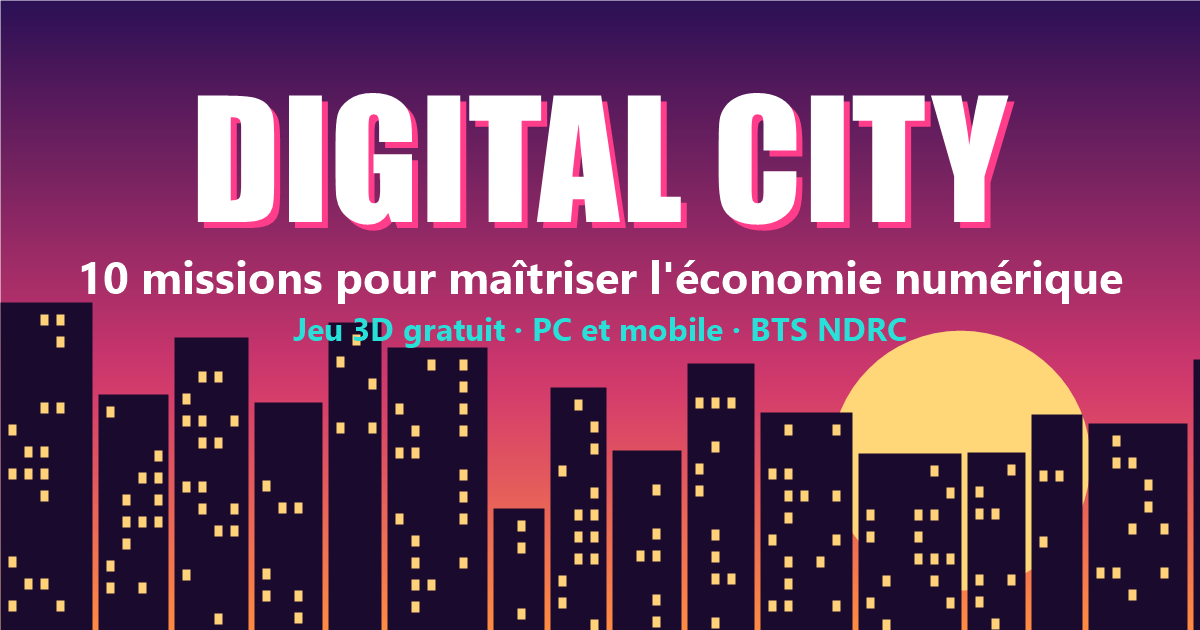
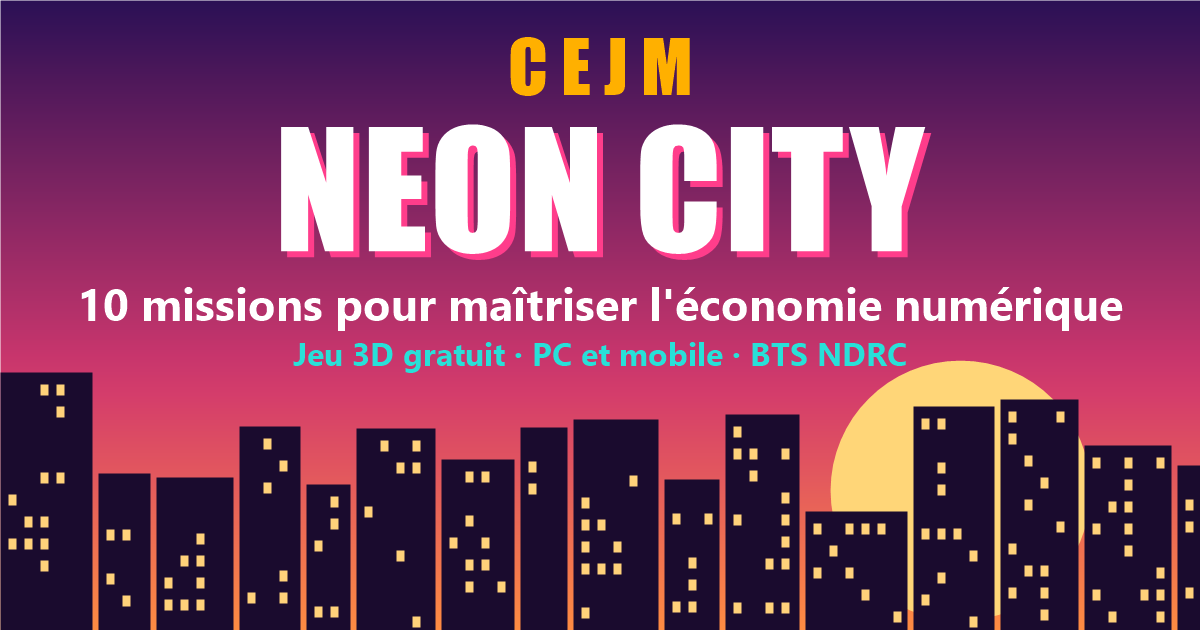
Renommage du jeu en CEJM Neon City

diff --git a/index.html b/index.html
@@ -3,11 +3,11 @@
 <head>
   <meta charset="utf-8" />
   <meta name="viewport" content="width=device-width, initial-scale=1, maximum-scale=1, user-scalable=no, viewport-fit=cover" />
-  <title>Digital City — Le jeu de l'économie numérique</title>
+  <title>CEJM Neon City — Le jeu de l'économie numérique</title>
   <meta name="description" content="10 missions pour maîtriser l'économie numérique : un jeu 3D en monde ouvert, jouable dans le navigateur, pour les étudiants de BTS NDRC." />
   <meta name="theme-color" content="#2b1055" />
   <meta property="og:type" content="website" />
-  <meta property="og:title" content="Digital City — Le jeu de l'économie numérique" />
+  <meta property="og:title" content="CEJM Neon City — Le jeu de l'économie numérique" />
   <meta property="og:description" content="Vole des voitures, termine 10 missions et débloque les 10 définitions de l'économie numérique. Jouable sur PC et mobile, sans installation." />
   <meta property="og:image" content="%VITE_SITE_URL%og-image.png" />
   <meta property="og:url" content="%VITE_SITE_URL%" />
@@ -20,11 +20,11 @@
 </head>
 <body>
   <canvas id="game"></canvas>
-  <div id="loading">Chargement de Digital City…</div>
+  <div id="loading">Chargement de CEJM Neon City…</div>
 
   <div id="title" class="overlay hidden">
     <div class="title-card">
-      <div class="logo">DIGITAL <span>CITY</span></div>
+      <div class="logo"><small>CEJM</small>NEON <span>CITY</span></div>
       <div class="subtitle">10 missions pour maîtriser l'économie numérique</div>
       <div class="title-btns">
         <button id="btn-play" class="btn primary">Jouer</button>
@@ -121,7 +121,7 @@
   <div id="endscreen" class="overlay hidden">
     <div class="card wide">
       <div class="logo small">FÉLICITATIONS !</div>
-      <p class="end-sub">Tu as terminé les 10 missions et maîtrisé les règles de l'économie numérique. Léa est fière de toi : Digital City Corp est devenue un empire !</p>
+      <p class="end-sub">Tu as terminé les 10 missions et maîtrisé les règles de l'économie numérique. Léa est fière de toi : Neon City Corp est devenue un empire !</p>
       <ol id="end-list"></ol>
       <button id="end-continue" class="btn primary">Continuer à explorer</button>
     </div>

diff --git a/src/missions/missions.js b/src/missions/missions.js
@@ -61,7 +61,7 @@ export const DEFINITIONS = [
 ];
 
 export const INTRO = [
-  ['Léa', "Salut ! Bienvenue à Digital City ! Moi, c'est Léa, fondatrice de la start-up Digital City Corp."],
+  ['Léa', "Salut ! Bienvenue à CEJM Neon City ! Moi, c'est Léa, fondatrice de la start-up Neon City Corp."],
   ['Léa', "Mon rêve : bâtir un empire du numérique. Et pour ça, j'ai besoin de toi !"],
   ['Léa', "Mission après mission, je vais t'apprendre les règles de la nouvelle économie. Je te guide par téléphone."],
   ['Léa', "Suis la flèche en haut de l'écran et rejoins le marqueur jaune. Tu peux prendre n'importe quelle voiture avec E. Le carnet de définitions s'ouvre avec J. À toi de jouer !"],
@@ -166,7 +166,7 @@ export const MISSIONS = [
         ['Léa', 'Teste l\'appli : deviens chauffeur UBIK ! Ta première cliente, Inès, t\'attend.'],
       ] },
       { type: 'goto', target: [-153.75, 100], car: true, npc: N('Inès'), objective: 'Course UBIK : récupère Inès (en voiture)' },
-      { type: 'goto', target: 'hq', car: true, time: 70, objective: 'Dépose Inès au Digital City HQ', done: 'Inès descend : ★★★★★' },
+      { type: 'goto', target: 'hq', car: true, time: 70, objective: 'Dépose Inès au Neon City HQ', done: 'Inès descend : ★★★★★' },
       { type: 'dialog', lines: [['UBIK', '🔔 Nouvelle course disponible ! Karim t\'attend. Destination : le Café Wifi.']] },
       { type: 'goto', target: [126.25, 160], car: true, npc: N('Karim'), objective: 'Course UBIK : récupère Karim (en voiture)' },
       { type: 'goto', target: 'cafe', car: true, time: 80, objective: 'Dépose Karim au Café Wifi', done: 'Karim descend : ★★★★★' },

diff --git a/src/world/landmarks.js b/src/world/landmarks.js
@@ -4,7 +4,7 @@ import { textTexture } from './textures.js';
 
 // Lieux nommés des missions. i/j = indice du pâté (0..9) en x / z, side = côté de l'entrée.
 export const LANDMARKS = [
-  { id: 'hq', name: 'DIGITAL CITY HQ', i: 4, j: 4, side: 's', kind: 'tower', color: '#7b86d6' },
+  { id: 'hq', name: 'NEON CITY HQ', i: 4, j: 4, side: 's', kind: 'tower', color: '#7b86d6' },
   { id: 'martin', name: 'CABINET MARTIN', i: 1, j: 1, side: 'e', kind: 'office', color: '#c9b79c', h: 28 },
   { id: 'datacenter', name: 'DATA CENTER', i: 8, j: 8, side: 'w', kind: 'datacenter' },
   { id: 'ferme', name: 'FERME DUBOIS', i: 0, j: 9, side: 'n', kind: 'farm' },
@@ -93,8 +93,8 @@ const BUILDERS = {
     c.neon({ t: 'ico', r: 1.2, pos: [0, 137, 0], color: '#ff3d8b' });
     c.plain({ t: 'box', w: 12, h: 0.6, d: 5, pos: [0, 4.5, 13], color: '#2a2440' });
     c.neon({ t: 'box', w: 12, h: 0.2, d: 0.2, pos: [0, 4.3, 15.5], color: '#28e0d8' });
-    c.sign('DIGITAL CITY HQ', { lz: 11.15, y: 9, width: 18 });
-    c.sign('DIGITAL CITY', { lz: 11.15, y: 110, width: 21, glow: '#28e0d8' });
+    c.sign('NEON CITY HQ', { lz: 11.15, y: 9, width: 18 });
+    c.sign('CEJM NEON CITY', { lz: 11.15, y: 110, width: 21.5, glow: '#28e0d8' });
   },
   office(c) {
     const h = c.lm.h || 24;

diff --git a/src/style.css b/src/style.css
@@ -15,6 +15,7 @@ button { font-family: inherit; cursor: pointer; }
 .title-card { text-align: center; max-width: 760px; }
 .logo { font-family: Anton, Impact, sans-serif; font-size: clamp(54px, 13vw, 128px); line-height: 0.95; letter-spacing: 3px; color: #fff; text-shadow: 0 0 18px var(--pink), 4px 4px 0 var(--pink), 8px 8px 0 #2b1055; }
 .logo span { color: var(--cyan); text-shadow: 0 0 18px var(--cyan), 4px 4px 0 #2b1055; }
+.logo > small { display: block; font-size: 0.42em; letter-spacing: 12px; color: var(--orange); text-shadow: 0 0 14px var(--orange), 3px 3px 0 #2b1055; margin-bottom: 6px; }
 .logo.small { font-size: clamp(36px, 8vw, 64px); text-align: center; }
 .subtitle { font-weight: 800; font-size: clamp(16px, 3.4vw, 22px); margin: 18px 0 26px; text-shadow: 0 2px 6px #000; }
 .title-btns { display: flex; gap: 14px; justify-content: center; flex-wrap: wrap; }

diff --git a/src/missions/engine.js b/src/missions/engine.js
@@ -279,7 +279,7 @@ export class MissionEngine {
   updateHud() {
     const h = this.game.hud;
     if (!this.active) {
-      if (this.completed >= MISSIONS.length) h.setMission('MODE LIBRE', 'Explore Digital City ! (J : carnet de définitions)', '');
+      if (this.completed >= MISSIONS.length) h.setMission('MODE LIBRE', 'Explore CEJM Neon City ! (J : carnet de définitions)', '');
       else {
         const m = MISSIONS[this.completed];
         h.setMission(`MISSION ${this.completed + 1}/10 — ${m.title}`, `Rejoins le marqueur jaune : ${this.game.city.landmarks[m.start].name}`, '');

diff --git a/vite.config.js b/vite.config.js
@@ -1,9 +1,9 @@
 import { defineConfig } from 'vite';
 
-// En production, le jeu est servi sous https://<pseudo>.github.io/digital-city/
+// En production, le jeu est servi sous https://<pseudo>.github.io/cejm-neon-city/
 // On peut surcharger avec la variable d'environnement BASE (ex. BASE=/ pour Netlify/Vercel).
 export default defineConfig(({ command }) => ({
-  base: command === 'build' ? (process.env.BASE || '/digital-city/') : '/',
+  base: command === 'build' ? (process.env.BASE || '/cejm-neon-city/') : '/',
   build: {
     chunkSizeWarningLimit: 1200,
   },

diff --git a/README.md b/README.md
@@ -1,4 +1,4 @@
-# DIGITAL CITY — le jeu de l'économie numérique
+# CEJM NEON CITY — le jeu de l'économie numérique
 
 Jeu 3D en monde ouvert (Three.js) jouable dans le navigateur, sur PC et mobile, pour les étudiants de BTS NDRC.
 Le joueur termine 10 missions, et chacune débloque la définition d'une notion de l'économie numérique.
@@ -45,15 +45,18 @@ Sur mobile : joystick à gauche, boutons ACTION / FREIN / CARNET à droite, glis
 
 ## Redéployer
 
-Le dépôt contient un workflow GitHub Actions (`.github/workflows/deploy.yml`) : **chaque `git push` sur `main` reconstruit et publie automatiquement le jeu sur GitHub Pages**.
+Le jeu publié est servi par GitHub Pages depuis la branche `gh-pages`. Après une modification :
 
 ```bash
 git add .
 git commit -m "Modification des missions"
 git push
+npm run deploy
 ```
 
-Le jeu est en ligne quelques minutes plus tard à l'adresse `https://<pseudo>.github.io/digital-city/`.
+`npm run deploy` compile le jeu et publie le dossier `dist/` sur la branche `gh-pages`.
+
+Le jeu est en ligne quelques minutes plus tard à l'adresse `https://<pseudo>.github.io/cejm-neon-city/`.
 
 ## Technique
 
